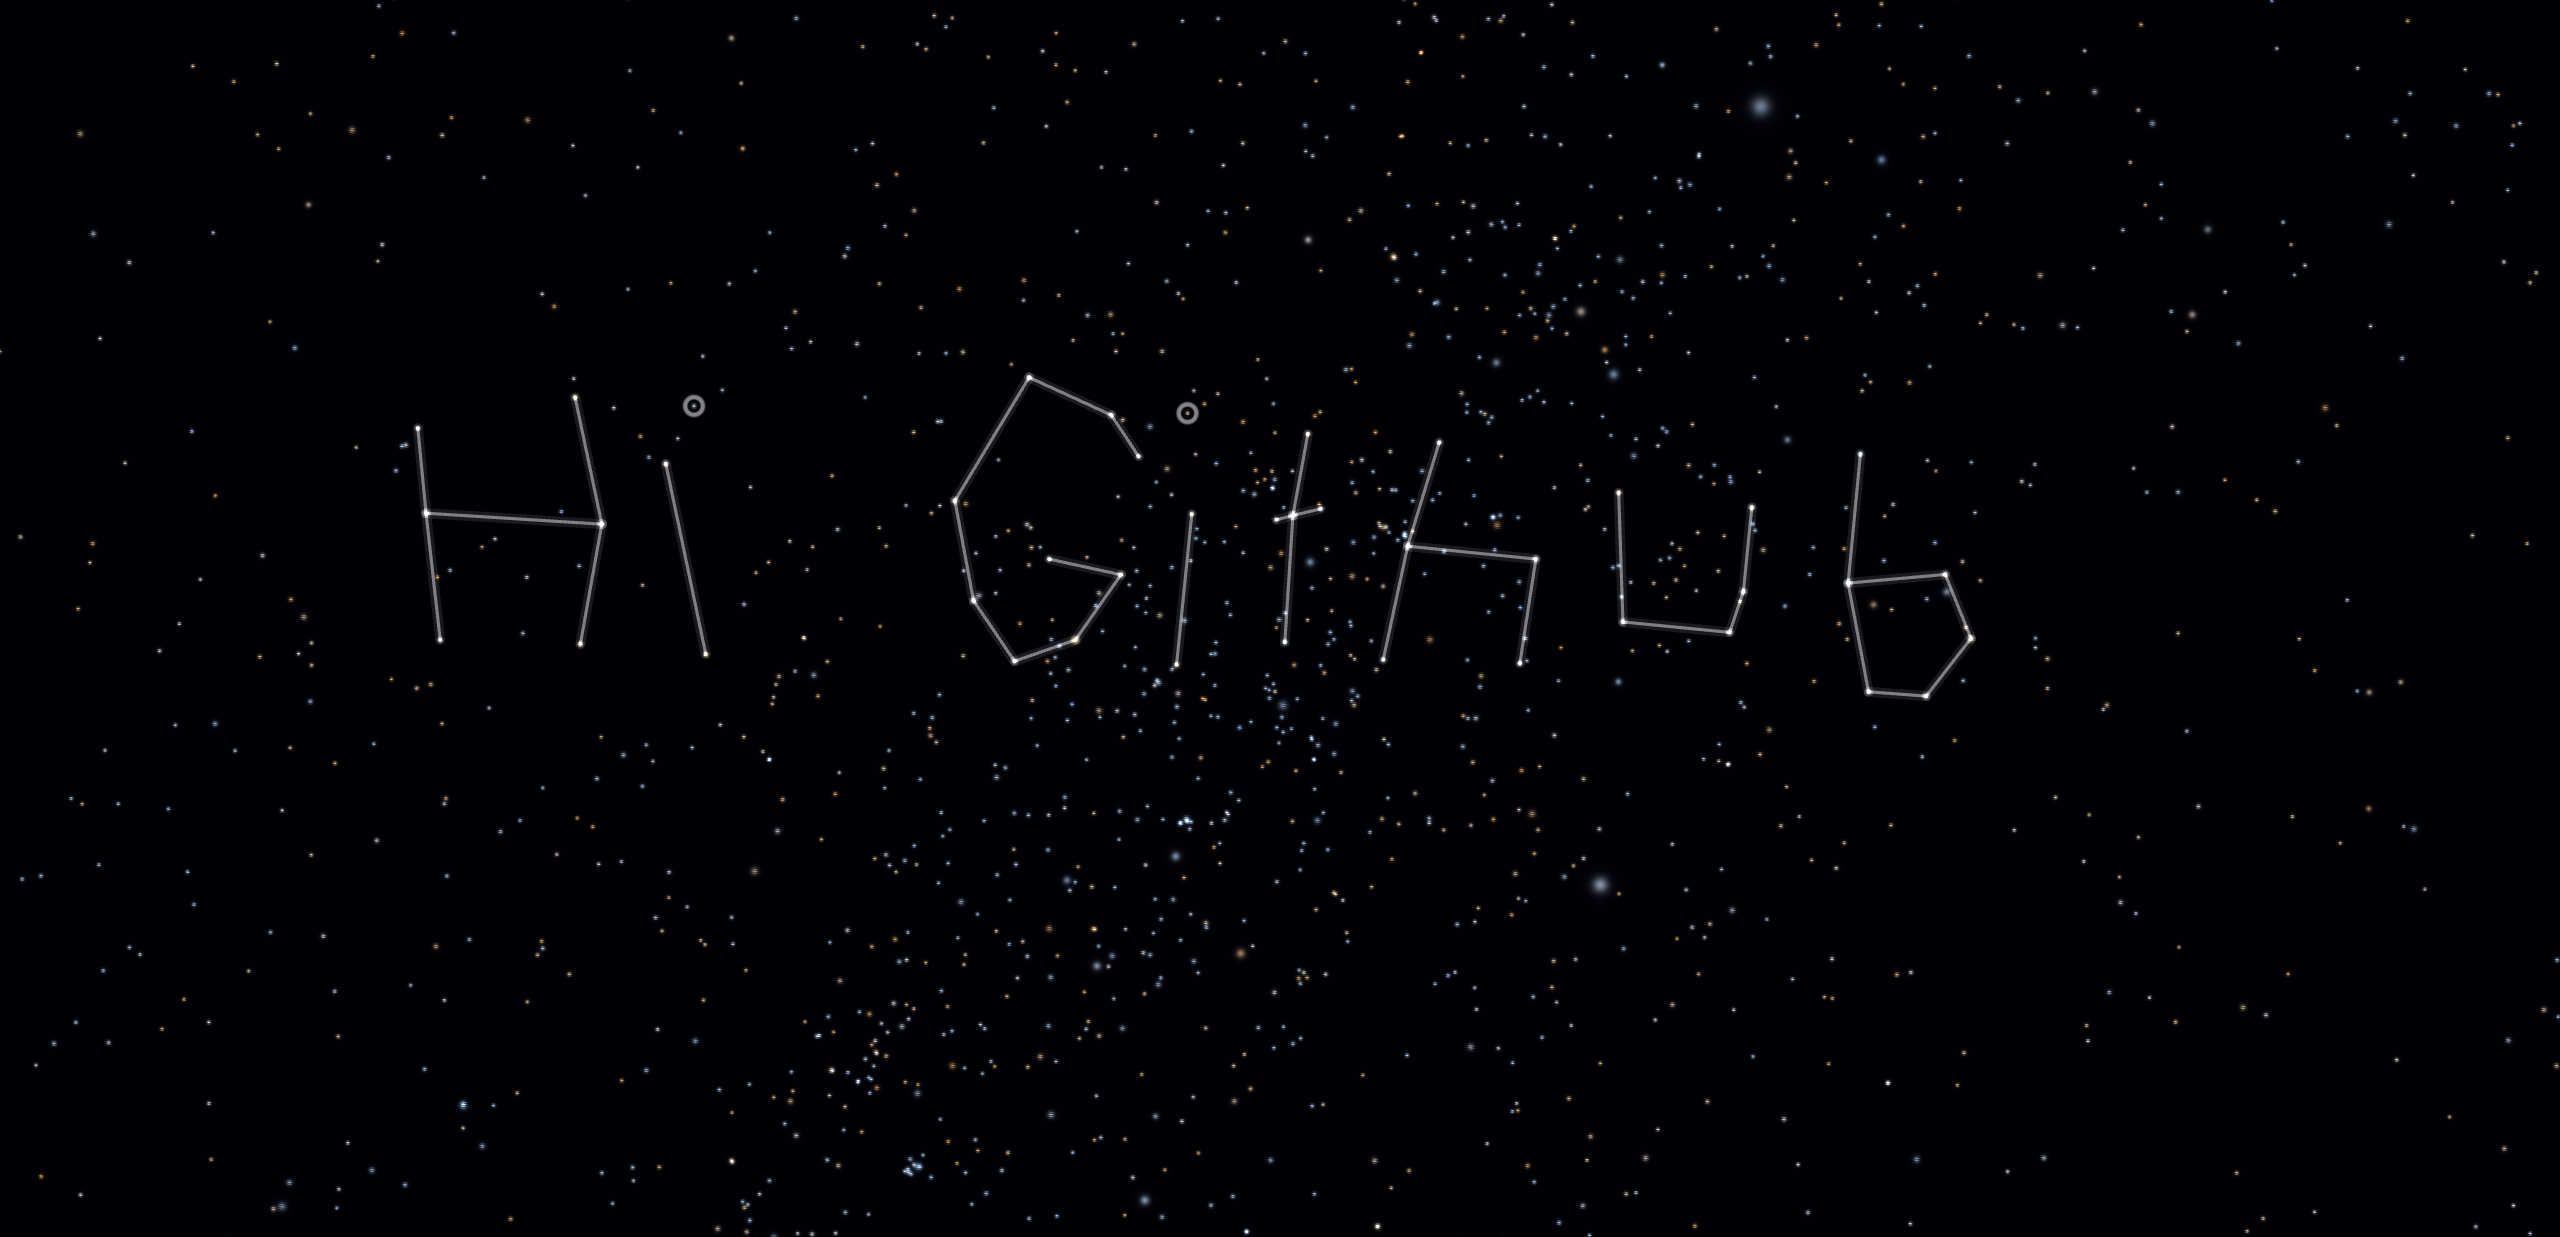
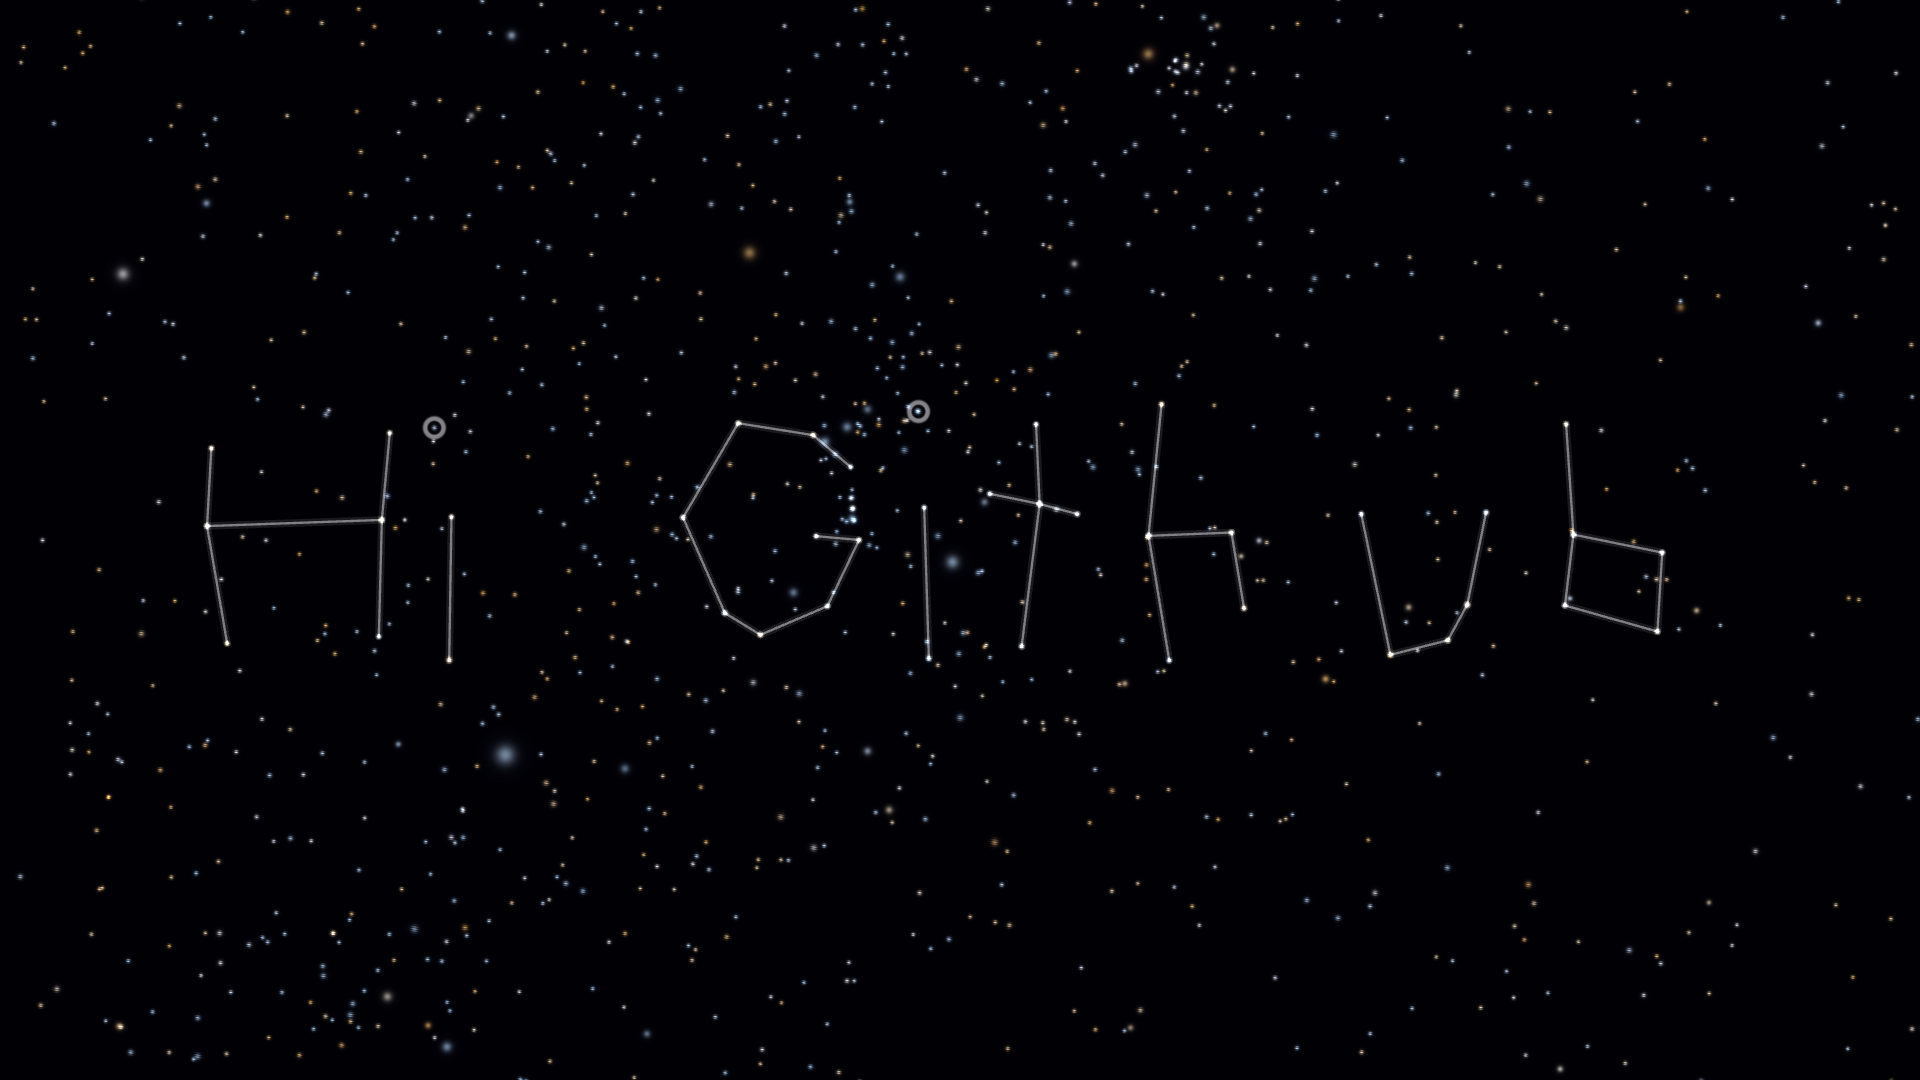
update readme

diff --git a/src/routes/+page.svelte b/src/routes/+page.svelte
@@ -1949,18 +1949,18 @@
 
 				<h2 class="about-title">Starspelled</h2>
 				<p class="about-text">
-					Type anything and it becomes a constellation made from real stars. There are ~9,000 stars in here from an
-					actual star catalog, so your constellations are mapped to real positions in the sky.
+					Type a word or short phrase and it becomes a constellation made from real stars. The matcher works against
+					~9,000 cataloged stars, so each result maps to real positions in the sky.
 				</p>
 
 				<div class="about-section">
 					<h3 class="about-heading">How to use</h3>
 					<ul class="about-list">
-						<li>Type any word or phrase to create your constellation</li>
+						<li>Type a word or short phrase to create your constellation</li>
 						<li>Drag vertices to snap them to nearby stars</li>
 						<li>Search for real stars and IAU constellations</li>
 						<li>Click any star to see its details</li>
-						<li>Share your creation via the generated link</li>
+						<li>Share the exact matched stars and settings via the generated link</li>
 					</ul>
 				</div>
 

diff --git a/README.md b/README.md
@@ -8,7 +8,7 @@ Turn words and short phrases into constellations made from real cataloged stars.
   <img src="docs/Hi_Github.png" alt="HI GITHUB spelled out in real star positions" width="600"/>
 </p>
 <p align="center">
-  <a href="https://starspelled.com/#SGkgR2l0aHVi~Yo4UWAvFbDOcPzLVQrgsQcRog8xeQtSWBucARH2pSdfEGqc15W_HVQf7exEYFX6YVXw5VyL4RjJcuTiUQUGyPoAwxzvBuym1mzA">Open the live "Hi Github" example</a>
+  <a href="https://starspelled.com/#BAEAAKAlRDAJ4c6FPef___mQbLedsMKZnDEzlKLZqEavWrcUxKrlQtiZhwaMDml8GyD1oFfs2JYQJpjmx5sLPHB5lCk-is5WgGgl7YLeJLmXq7MwkIMS04A">Open the live "Hi GitHub" example</a>
 </p>
 <p align="center">
   <img src="docs/Hi_Github_globe.png" alt="HI GITHUB shown in globe view with labels and overlays enabled" width="600"/>
@@ -23,7 +23,7 @@ Text is converted into a graph using Hershey Simplex vector data. The matcher th
 - refines the fit with CMA-ES
 - assigns unique stars to each glyph node with greedy matching plus swap refinement
 
-The result is rendered on an interactive 3D celestial sphere. You can orbit, zoom, and inspect the surrounding sky, then share the exact result through an encoded URL.
+The result is rendered on an interactive 3D celestial sphere. You can orbit, zoom, and inspect the surrounding sky, then share the exact matched stars and display settings through an encoded URL.
 
 See [docs/how-it-works.md](docs/how-it-works.md) for a concise technical walkthrough.
 
@@ -35,7 +35,7 @@ See [docs/how-it-works.md](docs/how-it-works.md) for a concise technical walkthr
 
 ## Example
 
-- Live example: [`HI GITHUB`](https://starspelled.com/#SGkgR2l0aHVi~Yo4UWAvFbDOcPzLVQrgsQcRog8xeQtSWBucARH2pSdfEGqc15W_HVQf7exEYFX6YVXw5VyL4RjJcuTiUQUGyPoAwxzvBuym1mzA)
+- Live example: [`HI GITHUB`](https://starspelled.com/#BAEAAKAlRDAJ4c6FPef___mQbLedsMKZnDEzlKLZqEavWrcUxKrlQtiZhwaMDml8GyD1oFfs2JYQJpjmx5sLPHB5lCk-is5WgGgl7YLeJLmXq7MwkIMS04A)
 
 ## Features
 

diff --git a/docs/how-it-works.md b/docs/how-it-works.md
@@ -1,6 +1,6 @@
 # How It Works
 
-`Written in the Stars` treats arbitrary text as a geometric matching problem over a real star catalog.
+`Written in the Stars` treats words and short phrases as a geometric matching problem over a real star catalog.
 
 ## Pipeline
 
@@ -27,6 +27,6 @@ The app runs the matching pipeline in a Web Worker so the UI stays responsive. S
 
 Given the same input text and the same star catalog, the matcher is deterministic. The optimizer uses a seeded PRNG derived from its start parameters, which keeps repeated runs stable and makes debugging easier.
 
-## What The Share URL Contains
+## What the Share URL Contains
 
-Shared links encode the matched constellation result, not just the input text. That means recipients open the exact same star assignment and camera framing that was originally found.
+Shared links encode the matched constellation result and scene settings, not just the input text. Recipients reopen the same text, star assignment, colors, focused constellation, display toggles, brightness, and globe view state.
